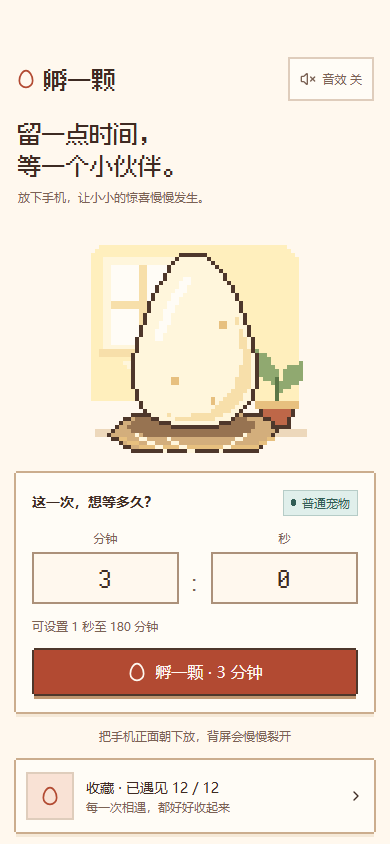
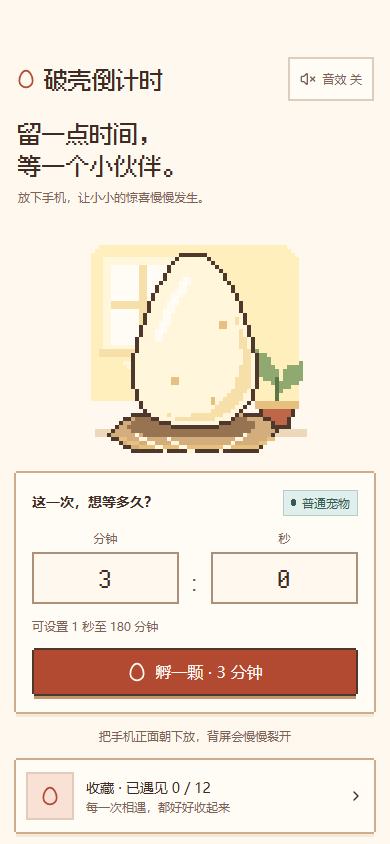
chore: name the app 破壳倒计时

Changed region(s): [[0.0923, 0.0616, 0.4308, 0.1232], [0.4308, 0.9242, 0.5538, 0.955]]

diff --git a/src/app/pages/StartPage.tsx b/src/app/pages/StartPage.tsx
@@ -6,6 +6,7 @@ import { Dialog } from '@/shared/ui/Dialog'
 import { Input } from '@/shared/ui/Input'
 import { useToast } from '@/shared/ui/Toast'
 import { useEgg } from '@/shared/egg/EggProvider'
+import { APP_NAME } from '@/shared/config/app'
 import { DEFAULT_DURATION_MS, PHASE_LABEL, formatDuration, isValidDuration, tierForDuration, TIER_LABEL } from '@/shared/egg/types'
 import { PETS, PET_BY_ID } from '@/shared/egg/pets'
 import { EggScene } from '@/app/components/EggScene'
@@ -104,7 +105,7 @@ export function StartPage() {
   return (
     <div className="page story-page start-page">
       <div className="start-toolbar">
-        <span className="story-wordmark"><Egg className="size-5" aria-hidden />孵一颗</span>
+        <span className="story-wordmark"><Egg className="size-5" aria-hidden />{APP_NAME}</span>
         <button type="button" className="sound-toggle" aria-pressed={settings.sound}
           onClick={() => updateSettings({ sound: !settings.sound })}>
           {settings.sound ? <Volume2 className="size-4" aria-hidden /> : <VolumeX className="size-4" aria-hidden />}

diff --git a/src/shared/config/app.ts b/src/shared/config/app.ts
@@ -3,7 +3,7 @@
  *
  * 新增全局常量（应用名、版本号、默认分页大小等）放这里，不要散落在各页面里。
  */
-export const APP_NAME = '这颗蛋快孵出来了'
+export const APP_NAME = '破壳倒计时'
 
 export const APP_VERSION = '0.1.0'
 
@@ -13,4 +13,4 @@ export const APP_VERSION = '0.1.0'
  * 项目已确定名称，使用明确的中文标题，避免首页和标签页仍显示脚手架的“应用”。
  * 页面用 `usePageTitle()` 声明标题后会覆盖它；这里不增加首页顶栏。
  */
-export const DOC_TITLE_FALLBACK = '这颗蛋快孵出来了'
+export const DOC_TITLE_FALLBACK = APP_NAME

diff --git a/index.html b/index.html
@@ -16,7 +16,7 @@
          admin.html 声明 content="admin"；该值由 src/shared/track.ts 读取，决定 auth 的 storageKey，不要删除或改错。 -->
     <meta name="ui-scope" content="app" />
     <!-- 已确认的应用名称，与 DOC_TITLE_FALLBACK 保持一致；页面标题仍由 usePageTitle 管理。 -->
-    <title>这颗蛋快孵出来了</title>
+    <title>破壳倒计时</title>
   </head>
   <body>
     <div id="root"></div>

diff --git a/docs/handover.md b/docs/handover.md
@@ -1,6 +1,7 @@
-# 交接文档 ·「这颗蛋快孵出来了」
+# 交接文档 ·「破壳倒计时」
 
-> 项目性质：STEPX Neo 背屏孵蛋小玩具，React + TypeScript + Vite，本地存储，无业务后端、登录或支付。
+> 项目性质：STEPX Neo 双屏宠物陪伴计时器，React + TypeScript + Vite，本地存储，无业务后端、登录或支付。
+> 应用定名：破壳倒计时。首页标识、浏览器标题与壳名称已统一；原始PRD文件名保留为历史来源。
 > 最新交付（2026-11-05）：温暖像素界面、12只角色的轻点／长按与双屏回应、音效和到期振动，补齐读档保护与后台翻面检查。最终结果以 [交付验收](final-acceptance.md) 为准；绘本与早期测试报告仅作历史参考。
 > 后续补充：本地像素音效、12 只宠物的轻点／长按声与到期双短振，见 [音效与振动验收](feedback-acceptance.md)。默认静音及现有 v2 设置保留，关闭声音仍有到期振动。
 

diff --git a/README.md b/README.md
@@ -1,6 +1,6 @@
-# 这颗蛋快孵出来了
+# 破壳倒计时
 
-一款给 STEPX Neo 的桌面小玩具：设置等待时长，把手机正面朝下，陪一颗蛋慢慢孵化。正面是温暖复古的像素小屋，背面的 17×23 点阵屏呈现等待、裂纹与破壳；到期用两次短振提醒，回到主屏认识新伙伴。等待时长决定本局宠物等级。
+一款温暖像素风的宠物陪伴计时器，为 STEPX Neo 的双屏体验设计。设置倒计时时长，把手机正面朝下，陪一颗蛋慢慢孵化。正面是复古像素小屋，背面的 17×23 点阵屏呈现等待、裂纹与破壳；到期用两次短振提醒，回到主屏认识新伙伴。倒计时时长决定本局宠物等级。
 
 [首页预览](docs/previews/start-390.png) · [收藏预览](docs/previews/collection-390.png) · [最终验收](docs/final-acceptance.md) · [开发交接](docs/handover.md)
 

diff --git a/docs/final-acceptance.md b/docs/final-acceptance.md
@@ -1,5 +1,7 @@
 # 最终交付验收
 
+命名更新（2026-11-05）：用户最终定名为“破壳倒计时”，已同步首页标识、浏览器标题、应用常量、壳名称、README与交接文档，并刷新首页预览图。本次命名调整后重新完成类型检查、客户端构建及320／375／390px名称布局检查，均通过；下方137项功能测试仍对应命名前的功能冻结版本，业务逻辑没有变化。
+
 日期：2026-11-05，Asia/Shanghai。最终修复后的完整业务回归 52／52、音效与到期反馈 16／16 通过，退出码均为 0。本轮在已有 `http://127.0.0.1:5179/` 服务上重新执行，使用 Node.js v24.17.0 和项目锁定的 Playwright／Chromium。未重启服务；反馈测试仅修正已定位的首振采样前置等待，业务、双振间隔及取消尾振断言保留，历史报告保留。
 
 ## 本轮浏览器验收

diff --git a/docs/acceptance.md b/docs/acceptance.md
@@ -1,4 +1,4 @@
-# 《这颗蛋快孵出来了》验收记录
+# 《破壳倒计时》验收记录
 
 最新温暖像素界面、轻点／长按与双屏互动版本见 [像素伙伴验收](pixel-pets-acceptance.md)，证据另存 `.acceptance-pixel/`。此前背屏参考契约专项核验见 [背屏接口核验](back-screen-verification.md)。下文绘本版本的 49 项及其他数量均为对应版本的历史结果。
 
